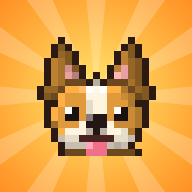
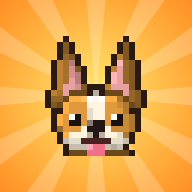
Fix duplicate dog after a catch; breed-accurate ear sizes; redrawn player character
Claude-Session: https://claude.ai/code/session_01UC9ARqZmDqxh1ms8ocxWV2

Changed region(s): [[0.1875, 0.1875, 0.8125, 0.8125]]

diff --git a/index.html b/index.html
@@ -207,10 +207,12 @@ BR.push(
 {id:'papillon',n:'Papillon',sz:0,c:'#f8f4ee',s:'#8a4a22',ec:'#8a4a22',e:'bat',t:'fluff',p:'eyepatch',f:1,z:['lawn'],h:'M',r:2,d:'Butterfly ears. Flutters when excited.'},
 {id:'mastiff',n:'Tibetan Mastiff',sz:2,c:'#3a2218',s:'#a8622a',e:'flop',t:'curl',p:'tan',f:1,z:['woods'],h:'D',r:3,d:'A lion in a dog suit. Seen deep in the woods by day.'});
 BR.push({id:'bulldog',n:'Bulldog',sz:1,c:'#f4ece0',s:'#c8843a',ec:'#c8843a',m:'#f4ece0',e:'fold',t:'stub',p:'eyepatch',flat:1,z:['lawn'],h:'D',r:1,d:'Naps hard. Snores harder.'});
+const ES={corgi:2,shep:2,kelpie:2,shiba:0,pom:0,samo:0,akita:0,westie:0,basset:2,cocker:2,cav:2,afghan:2,weim:2,vizsla:2,rott:0,newf:0,mastiff:0,sheep:0,pug:0,jack:0,staffy:0,grey:0,whippet:0,wolf:0,bulldog:0,husky:1,dingo:1};
 const TP={},TPN={feisty:'Feisty',fast:'Speedy',sleepy:'Sleepy',friendly:'Friendly',shy:'Shy',calm:'Calm'};
 [['feisty','chi jack pom dachs westie papillon schnauzer'],['fast','kelpie collie grey whippet heeler aussie vizsla husky dalm weim'],['sleepy','bulldog french pug basset bernard newf dane mastiff sheep'],['friendly','lab golden cavoodle staffy cav cocker beagle boxer corgi mutt samo bern bullt'],['shy','shiba afghan dingo wolf akita']].forEach(([t,l])=>l.split(' ').forEach(id=>TP[id]=t));
 const TQ={feisty:{v:1.6,p0:.15,p1:.4,pc:.15},fast:{v:1.9,p0:.2,p1:.5,pc:.25},sleepy:{v:.5,p0:1.5,p1:2.6,pc:.6},friendly:{v:.9,p0:.8,p1:1.4,pc:.5},shy:{v:1.15,p0:.2,p1:.5,pc:.1,edge:1},calm:{v:1,p0:.35,p1:1,pc:.3}};
 const BY={};BR.forEach(b=>BY[b.id]=b);
+BY.beagle.e='long';BY.dobe.e='flop';BY.dane.e='flop';BY.rott.e='flop';const earSz=b=>{const v=ES[b.id.replace('~','')];return v===undefined?1:v};
 const BALI={id:'bali',n:'Aussie Shepherd',sz:1,c:'#7a4630',s:'#f8f2ea',ec:'#94603e',lc:'#c8824a',brow:'#d08a48',eye:'#d89a30',nose:'#6a4038',e:'fold',t:'fluff',p:'mask',f:1};BY.bali=BALI;
 const SHALL=new URLSearchParams(location.search).get('shiny');
 function hueShift(hex){const n=parseInt(hex.slice(1),16);let r=(n>>16)/255,g=(n>>8&255)/255,b=(n&255)/255;const mx=Math.max(r,g,b),mn=Math.min(r,g,b);let h=0,s=0,l=(mx+mn)/2;
@@ -321,11 +323,12 @@ function dogFront(b,fr,o,happy){ // fr 0/1 tail wag, 2 blink
  else if(o&&!b.nocol){const col=b.col||'#d83a3a';px(x,cl,yc,cw,2,col);px(x,cl,yc+1,cw,1,shade(col,.72));px(x,cx-1,yc+2,3,2,'#f4d03f');px(x,cx-1,yc+2,1,1,'#fff6c0');px(x,cx+1,yc+3,1,1,'#c89a1a')}
  // ears
  const earL=(x,t)=>{
-  if(t==='point'){tri(x,L+1,T-5,L-1,L+5,T+2,E);tri(x,L+2,T-2,L+1,L+4,T+2,IN)}
+  const es=earSz(b);
+  if(t==='point'){const ph=[3,5,8][es];tri(x,L+1,T-ph,L-1,L+3+es,T+2,E);tri(x,L+2,T-ph+3,L+1,L+2+es,T+2,IN)}
   else if(t==='bat'){tri(x,L,T-8,L-2,L+5,T+2,E);px(x,L-2,T-2,2,4,E);tri(x,L+1,T-5,L,L+4,T+2,IN)}
-  else if(t==='fold'){px(x,L,T-2,5,4,E);px(x,L-1,T-1,2,3,E);px(x,L-1,T+2,5,1,shade(E,.8));px(x,L-1,T+3,4,1,shade(E,.8));px(x,L-1,T+4,2,1,shade(E,.8))}
-  else if(t==='flop'){px(x,L-1,T+1,4,3,E);ell(x,L-1,hy+2,2,ry,E)}
-  else if(t==='long'){px(x,L-2,T+1,5,3,E);ell(x,L-2,hy+4,2,ry+2,E);if(b.t==='pom')ell(x,L-2,hy+ry+4,3,3,E)}
+  else if(t==='fold'){if(es===0){px(x,L,T-1,4,3,E);px(x,L-1,T+1,4,1,shade(E,.8));px(x,L-1,T+2,2,1,shade(E,.8))}else{px(x,L,T-2,5,4,E);px(x,L-1,T-1,2,3,E);px(x,L-1,T+2,5,1,shade(E,.8));px(x,L-1,T+3,4,1,shade(E,.8));px(x,L-1,T+4,2,1,shade(E,.8))}}
+  else if(t==='flop'){px(x,L-1,T+1,4,3,E);ell(x,L-1,hy+es,es===2?3:2,ry-2+es*2,E)}
+  else if(t==='long'){px(x,L-2,T+1,5,3,E);ell(x,L-2,hy+3+es,es===2?3:2,ry+1+es*2,E);if(b.t==='pom')ell(x,L-2,hy+ry+4,3,3,E)}
   else if(t==='crop'){tri(x,L+2,T-8,L+1,L+4,T+2,E);px(x,L+2,T-4,1,5,IN)}};
  const isF=t=>t==='flop'||t==='long',tl=b.e==='mix'?'point':b.e,trr=b.e==='mix'?'fold':b.e;
  const ears=front=>{const q=part();let any=false;
@@ -409,10 +412,10 @@ function dogSide(b,fr,o,tongue){ // fr 0 stand, 1-4 walk cycle
  else{px(x,hcx+1,hcy-1,2,2,b.eye||'#1a1210');px(x,hcx+1,hcy-1,1,1,'#fff');if(b.p==='tan'||b.brow)px(x,hcx+1,hcy-3,2,1,b.brow||S2)}
  comp(c,p,SEP);
  // ear
- p=part();x=p.x;const e=b.e==='mix'?'point':b.e,fl=bob,ex=hcx-hr;
- if(e==='flop'){px(x,ex,T+1,4,2,E);ell(x,ex+1,hcy+2-fl,2,hry+(sz?1:0),E)}
- else if(e==='long'){px(x,ex,T+1,4,2,E);ell(x,ex+1,hcy+3-fl,2,hry+2,E);if(b.t==='pom')ell(x,ex+1,hcy+hry+4-fl,3,3,E)}
- else if(e==='point'){tri(x,hcx-2,T-4,ex,hcx-1,T+1,E);px(x,hcx-2,T-1,1,2,IN)}
+ p=part();x=p.x;const e=b.e==='mix'?'point':b.e,fl=bob,ex=hcx-hr,es=earSz(b);
+ if(e==='flop'){px(x,ex,T+1,4,2,E);ell(x,ex+1,hcy+1+es-fl,2,Math.max(2,hry-1+es+(sz?1:0)),E)}
+ else if(e==='long'){px(x,ex,T+1,4,2,E);ell(x,ex+1,hcy+2+es-fl,es===2?3:2,hry+es*2,E);if(b.t==='pom')ell(x,ex+1,hcy+hry+4-fl,3,3,E)}
+ else if(e==='point'){tri(x,hcx-2,T-[2,4,7][es],ex,hcx-1,T+1,E);px(x,hcx-2,T-1,1,2,IN)}
  else if(e==='bat'){tri(x,hcx-3,T-6,ex-1,hcx-1,T+1,E);tri(x,hcx-3,T-3,hcx-3,hcx-2,T+1,IN)}
  else if(e==='fold'){px(x,ex,T-1,4,3,E);px(x,ex+2,T+2,3,1,shade(E,.8));px(x,ex+3,T+3,2,1,shade(E,.8))}
  else if(e==='crop'){tri(x,hcx-2,T-6,hcx-3,hcx-1,T+1,E)}
@@ -432,44 +435,46 @@ const SKIN=['#fbd9b5','#f0bf91','#d99c6a','#a86d45','#70452b'],
  PANTS=['#2c4a8b','#5a4632','#3a3a42','#7a8a5a','#b9a37a','#a83a4a'],
  HAIRS=['Short','Long','Spiky','Bun','Cap','Bald'];
 let PS={};
-function playerSpr(dir,fr){ // dir 0 down 1 up 2 side(right)
+function playerSpr(dir,fr){ // dir 0 down 1 up 2 side(right); fr 0 stand 1/2 step
  const key=dir+'_'+fr;if(PS[key])return PS[key];
- const p=S.player,c=mk(16,24),x=c.x,sk=SKIN[p.skin],H=HAIRC[p.hairC],sh=SHIRT[p.shirt],pa=PANTS[p.pants],hs=p.hair,shoe='#3a2a20';
- const l=fr===1?1:0,r=fr===2?1:0;
+ const p=S.player,c=mk(16,24),x=c.x,sk=SKIN[p.skin],skD=shade(sk,.82),H=HAIRC[p.hairC],HL=shade(H,1.45),HD=shade(H,.75),sh=SHIRT[p.shirt],shD=shade(sh,.76),shL=shade(sh,1.25),pa=PANTS[p.pants],paD=shade(pa,.76),hs=p.hair,shoe='#5a3c2a',sole='#2a1a12',eye='#24160f',belt='#3a2a20';
+ const a=fr===1,b=fr===2,cl=(X,Y)=>x.clearRect(X,Y,1,1);
  if(dir<2){
-  px(x,5,16,3,5-l,pa);px(x,8,16,3,5-r,pa);px(x,5,21-l,3,2,shoe);px(x,8,21-r,3,2,shoe);
-  px(x,4,10,8,6,sh);px(x,4,15,8,1,shade(sh,.8));
-  px(x,2,10,2,3,sh);px(x,12,10,2,3,sh);px(x,2,13+l,2,3-l,sk);px(x,12,13+r,2,3-r,sk);
-  px(x,4,3,8,7,sk);x.clearRect(4,9,1,1);x.clearRect(11,9,1,1);
-  if(dir===0){px(x,6,6,1,2,'#20140f');px(x,9,6,1,2,'#20140f');
-   if(p.beard){px(x,5,8,6,2,H);px(x,4,7,1,2,H);px(x,11,7,1,2,H)}
-   if(hs===0||hs===3){px(x,4,2,8,2,H);px(x,5,1,6,1,H);px(x,3,3,1,3,H);px(x,12,3,1,3,H)}
-   if(hs===3)px(x,6,-1,4,2,H),px(x,6,0,4,1,H);
-   if(hs===1){px(x,4,2,8,2,H);px(x,5,1,6,1,H);px(x,3,3,2,9,H);px(x,11,3,2,9,H)}
-   if(hs===2){px(x,4,2,8,2,H);px(x,3,3,1,2,H);px(x,12,3,1,2,H);[4,6,8,10].forEach(i=>px(x,i,0,1,2,H));px(x,11,1,1,1,H)}
-   if(hs===4){px(x,4,1,8,3,sh);px(x,3,4,10,1,shade(sh,.7));px(x,3,5,1,2,H);px(x,12,5,1,2,H)}
-  }else{
-   if(hs===5){}else if(hs===4){px(x,4,1,8,4,sh);px(x,4,5,8,2,H)}
-   else{px(x,4,2,8,6,H);px(x,5,1,6,1,H);px(x,3,3,1,4,H);px(x,12,3,1,4,H);
-    if(hs===1){px(x,3,3,10,9,H)}if(hs===2)[4,6,8,10].forEach(i=>px(x,i,0,1,2,H));if(hs===3)px(x,6,0,4,2,H)}
-  }
+  const leg=(lx,up,L)=>{const h=up?3:4;px(x,lx,17,3,h,pa);px(x,L?lx:lx+2,17,1,h,paD);px(x,L?lx-1:lx,17+h,4,2,shoe);px(x,L?lx-1:lx,18+h,4,1,sole)};
+  leg(5,b,1);leg(8,a,0);
+  px(x,4,11,8,6,sh);px(x,4,11,1,5,shD);px(x,11,11,1,5,shD);px(x,4,16,8,1,belt);px(x,5,13,6,1,shL);
+  if(dir===0){px(x,7,16,2,1,'#e8c040');px(x,6,11,4,1,shL);px(x,7,11,2,1,sk);px(x,7,12,2,1,skD)}
+  const arm=(ax,up)=>{const y0=up?10:11;px(x,ax,y0,2,3,sh);px(x,ax,y0+2,2,1,shD);px(x,ax,y0+3,2,2,sk);px(x,ax,y0+4,2,1,skD)};
+  arm(2,a);arm(12,b);
+  px(x,3,2,10,9,sk);cl(3,2);cl(12,2);cl(3,10);cl(12,10);
+  if(dir===0){px(x,4,10,8,1,skD);px(x,5,6,1,2,eye);px(x,10,6,1,2,eye);px(x,5,5,1,1,HD);px(x,10,5,1,1,HD);px(x,4,8,1,1,'rgba(235,110,110,.4)');px(x,11,8,1,1,'rgba(235,110,110,.4)');px(x,7,9,2,1,shade(sk,.66));
+   if(p.beard){px(x,4,8,8,3,H);px(x,3,7,1,3,H);px(x,12,7,1,3,H);px(x,7,9,2,1,HD);px(x,5,10,6,1,HD);cl(4,10);cl(11,10)}
+   if(hs<4){px(x,3,1,10,3,H);cl(3,1);cl(12,1);px(x,3,4,3,1,H);px(x,10,4,3,1,H);px(x,7,4,1,1,H);px(x,3,5,1,2,H);px(x,12,5,1,2,H);px(x,5,2,3,1,HL);px(x,4,3,8,1,HD);px(x,5,2,3,1,HL)}
+   if(hs===1){px(x,2,4,2,10,H);px(x,12,4,2,10,H);px(x,2,13,2,1,HD);px(x,12,13,2,1,HD)}
+   if(hs===2){[[4,0,1],[6,0,2],[9,0,1],[11,0,1]].forEach(([X,Y,W])=>px(x,X,Y,W,1,H))}
+   if(hs===3){px(x,6,0,4,1,H);px(x,7,0,2,1,HL)}
+   if(hs===4){px(x,3,1,10,3,sh);cl(3,1);cl(12,1);px(x,2,4,12,1,shD);px(x,7,1,2,1,shL);px(x,4,2,3,1,shL);px(x,3,5,1,2,H);px(x,12,5,1,2,H)}
+   if(hs===5)px(x,5,3,2,1,shade(sk,1.15))}
+  else{px(x,4,9,8,2,skD);
+   if(hs===5){px(x,6,3,3,1,shade(sk,1.12))}
+   else if(hs===4){px(x,3,1,10,4,sh);cl(3,1);cl(12,1);px(x,4,2,3,1,shL);px(x,3,5,10,3,H);px(x,4,8,8,1,HD)}
+   else{px(x,3,1,10,8,H);cl(3,1);cl(12,1);cl(3,8);cl(12,8);px(x,5,2,3,1,HL);px(x,4,7,8,1,HD);px(x,6,4,1,3,HD);px(x,9,4,1,3,HD);
+    if(hs===1){px(x,2,4,12,10,H);px(x,2,13,12,1,HD);px(x,5,5,1,7,HD);px(x,10,5,1,7,HD)}
+    if(hs===2)[[4,0,1],[6,0,2],[9,0,1],[11,0,1]].forEach(([X,Y,W])=>px(x,X,Y,W,1,H));
+    if(hs===3){px(x,6,0,4,2,H);px(x,7,0,2,1,HL)}}}
  }else{
-  if(fr===0){px(x,6,16,4,5,pa);px(x,6,21,5,2,shoe)}
-  else if(fr===1){px(x,4,16,3,4,pa);px(x,3,20,3,2,shoe);px(x,8,16,3,5,pa);px(x,8,21,4,2,shoe)}
-  else{px(x,8,16,3,4,pa);px(x,9,20,4,2,shoe);px(x,5,16,3,5,pa);px(x,5,21,4,2,shoe)}
-  px(x,5,10,6,6,sh);px(x,5,15,6,1,shade(sh,.8));px(x,7,11,2,3,shade(sh,.85));px(x,7,14,2,2,sk);
-  px(x,5,3,7,7,sk);x.clearRect(11,9,1,1);x.clearRect(5,9,1,1);
-  px(x,10,6,1,2,'#20140f');
-  if(p.beard){px(x,8,8,4,2,H);px(x,8,7,1,1,H)}
-  if(hs===4){px(x,5,1,7,3,sh);px(x,10,4,4,1,shade(sh,.7));px(x,5,4,2,3,H)}
-  else if(hs!==5){px(x,5,2,7,2,H);px(x,6,1,5,1,H);px(x,4,3,3,5,H);
-   if(hs===1)px(x,4,3,3,9,H);if(hs===2)[5,7,9].forEach(i=>px(x,i,0,1,2,H));if(hs===3)px(x,3,1,3,3,H)}
- }
- const hl=shade(H,1.5),bt='#3a2a20';
- if(dir===0){if(hs<4)px(x,6,2,2,1,hl);if(!p.beard)px(x,7,8,2,1,shade(sk,.7));px(x,5,7,1,1,shade(sk,.9));px(x,10,7,1,1,shade(sk,.9));
-  px(x,6,10,4,1,shade(sh,1.35));px(x,7,10,2,1,sk);for(let i=0;i<5;i++)px(x,5+i,10+i,1,1,'#2a2a32');px(x,8,13,3,2,'#2a2a32');px(x,9,13,1,1,'#9ad0ff');px(x,4,15,8,1,bt);px(x,7,15,2,1,'#f4d03f');px(x,5,21-l,1,1,'#7a5a44');px(x,8,21-r,1,1,'#7a5a44')}
- else if(dir===1){if(hs<4)px(x,6,2,3,1,hl);for(let i=0;i<5;i++)px(x,10-i,10+i,1,1,'#2a2a32');px(x,4,15,8,1,bt)}
- else{if(hs<4)px(x,7,2,2,1,hl);px(x,7,6,1,2,shade(sk,.8));if(!p.beard)px(x,10,8,2,1,shade(sk,.7));px(x,9,10,2,1,shade(sh,1.35));px(x,5,15,6,1,bt);px(x,8,10,1,3,'#2a2a32');px(x,9,12,3,2,'#2a2a32');px(x,11,12,1,1,'#9ad0ff')}
+  if(fr===0){px(x,6,17,4,4,pa);px(x,6,17,1,4,paD);px(x,6,21,5,2,shoe);px(x,6,22,5,1,sole)}
+  else if(a){px(x,5,17,3,3,paD);px(x,4,20,4,2,shoe);px(x,4,21,4,1,sole);px(x,8,17,3,4,pa);px(x,8,21,4,2,shoe);px(x,8,22,4,1,sole)}
+  else{px(x,8,17,3,3,paD);px(x,9,20,4,2,shoe);px(x,9,21,4,1,sole);px(x,5,17,3,4,pa);px(x,4,21,4,2,shoe);px(x,4,22,4,1,sole)}
+  px(x,5,11,6,6,sh);px(x,5,11,1,5,shD);px(x,5,16,6,1,belt);px(x,9,11,2,1,shL);px(x,6,13,5,1,shL);
+  const ax=a?9:b?5:7;px(x,ax,11,2,3,shD);px(x,ax,14,2,2,sk);px(x,ax,15,2,1,skD);
+  px(x,4,2,9,9,sk);cl(4,2);cl(12,2);cl(4,10);cl(12,10);px(x,13,7,1,1,sk);px(x,5,10,7,1,skD);
+  px(x,10,6,1,2,eye);px(x,10,5,2,1,HD);px(x,7,6,1,2,skD);px(x,11,9,1,1,shade(sk,.66));px(x,11,8,1,1,'rgba(235,110,110,.35)');
+  if(p.beard){px(x,8,8,5,3,H);px(x,7,8,1,2,H);px(x,8,10,4,1,HD);cl(12,10)}
+  if(hs===4){px(x,4,1,9,3,sh);cl(4,1);px(x,11,4,4,1,shD);px(x,5,2,3,1,shL);px(x,4,4,3,4,H)}
+  else if(hs!==5){px(x,4,1,9,3,H);cl(4,1);cl(12,1);px(x,4,4,3,5,H);px(x,11,4,2,1,H);px(x,6,2,3,1,HL);px(x,4,8,3,1,HD);px(x,7,4,1,1,H);
+   if(hs===1){px(x,3,4,4,10,H);px(x,3,13,4,1,HD)}if(hs===2)[[5,0,1],[7,0,2],[10,0,1]].forEach(([X,Y,W])=>px(x,X,Y,W,1,H));if(hs===3){px(x,5,0,4,1,H);px(x,6,0,2,1,HL)}}
+  else px(x,7,3,2,1,shade(sk,1.12))}
  return PS[key]=outline(shadeC(c))}
 
 /* ================= world ================= */
@@ -835,7 +840,7 @@ function photoResult(p){const b=p.b,old=S.dogs[b.id],isNew=!old;let tr;
  else{tr=2*p.stars+(p.stars>old.stars?5:0);old.n=(old.n||1)+1;if(p.stars>old.stars)old.stars=p.stars}
  const sh=!!p.d.shiny;let extra='';if(sh){tr*=3;if(!S.dogs[b.id].shiny){S.dogs[b.id].shiny=true;extra+='<p><b>✦ SHINY! ✦</b> A rare coat. Triple treats!</p>'}}
  S.treats+=tr;Q('snap');if(p.stars===3)Q('star3');if(isNew)Q('newb');Q('tp:'+(TP[b.id]||'calm'));Q('zn:'+zoneAt(p.d.x>>4,p.d.y>>4));
- if(!S.buddy){S.buddy=b.id;BUD.on=false;extra='<p>It wants to walk with you!</p>'}
+ p.isNew=isNew;if(!S.buddy){S.buddy=b.id;BUD.on=false;p.nb=true;extra='<p>It wants to walk with you!</p>'}
  if(count()===BR.length&&isNew)extra+='<p>DOGDEX COMPLETE! You legend.</p>';
  save();sfx.jingle();
  const c=mk(80,72),x=c.x,per=period(hourNow());px(x,0,0,80,50,{M:'#ffd6a0',D:'#8fd3ff',E:'#f7a66b',N:'#232c66'}[per]);px(x,0,46,80,26,'#4aa63c');for(let i=0;i<10;i++)disc(x,i*9+2,45,5,'#2f7d32');px(x,0,50,80,1,'#3c8c38');
@@ -846,7 +851,9 @@ function photoResult(p){const b=p.b,old=S.dogs[b.id],isNew=!old;let tr;
  <div class="stars">${stars(p.stars)}</div><p><span class="tag" style="background:${RAR[b.r][1]}">${RAR[b.r][0]}</span> &nbsp; +${tr} ${bone()}</p>${isNew?`<p><i>${b.d}</i></p><p>Give it a name:</p><input id="nm" maxlength="12" value="${S.dogs[b.id].name}" aria-label="Name" autocomplete="off">`:''}${extra}
  <button class="btn" data-a="ok">${isNew?'Save name':'OK'}</button>`);
  if(isNew&&S.tips<1){S.tips=1;save();setTimeout(()=>toast('Tap the book, top left, to open your Dogdex.',5000),1500)}}
-function endPhoto(){const p=G.ph;if(p){const d=p.d;d.happy=p.stars?2:0;d.leave=true;d.t=p.stars?3.5:2;d.st='sit'}G.ph=null;setState('world')}
+function endPhoto(){const p=G.ph;if(p){const d=p.d;if(p.stars){const ox=d.x,oy=d.y;for(let k=0;k<3;k++)G.fx.push({x:ox+(k-1)*7,y:oy-16-k*3,t:.8+k*.25});
+  if(p.nb&&S.buddy===p.b.id){BUD.on=true;BUD.id=S.buddy;BUD.x=ox;BUD.y=oy;BUD.emo=null;BUD.pd=0;BUD.hop=.3}else if(p.isNew)setTimeout(()=>toast(`${S.dogs[p.b.id].name} trotted off to your kennel.`,2600),300);
+  spawnDog(d,true)}else{d.happy=0;d.leave=true;d.t=2;d.st='sit'}}G.ph=null;setState('world')}
 
 /* ================= mini games ================= */
 const gY=()=>Math.round(vh*.7);
@@ -1195,7 +1202,7 @@ function boot(){load();mkSprites();genWorld();buildHome();resize();ACTI=[im(SPR.
  idbOpen().then(idbGet).then(j=>{if(j){try{const d=JSON.parse(j);if(d&&d.v===1&&(d.ts||0)>(S.ts||0)&&G.state==='title'){Object.assign(S,d);PS={};buildHome();if(S.pos&&!blocked(S.pos[0],S.pos[1])){P.x=S.pos[0];P.y=S.pos[1]}titleInit()}}catch(e){}}
   if(navigator.storage&&navigator.storage.persist)navigator.storage.persist().catch(()=>{})});
  if('serviceWorker'in navigator&&location.protocol==='https:')navigator.serviceWorker.register('sw.js').catch(()=>{});
- window.__pp={BAL,BALI,HOME,BUD,enterHome,exitHome,openPet,G,P,get S(){return S},dogs,BR,BY,startEncounter,snap,startMini,dogFront,dogSide,playerSpr,SPR,get MINI(){return MINI},menu,dex,zoneAt,spr,save}}
+ window.__pp={resetPS(){PS={}},BAL,BALI,HOME,BUD,enterHome,exitHome,openPet,G,P,get S(){return S},dogs,BR,BY,startEncounter,snap,startMini,dogFront,dogSide,playerSpr,SPR,get MINI(){return MINI},menu,dex,zoneAt,spr,save}}
 boot();
 })();
 </script>
